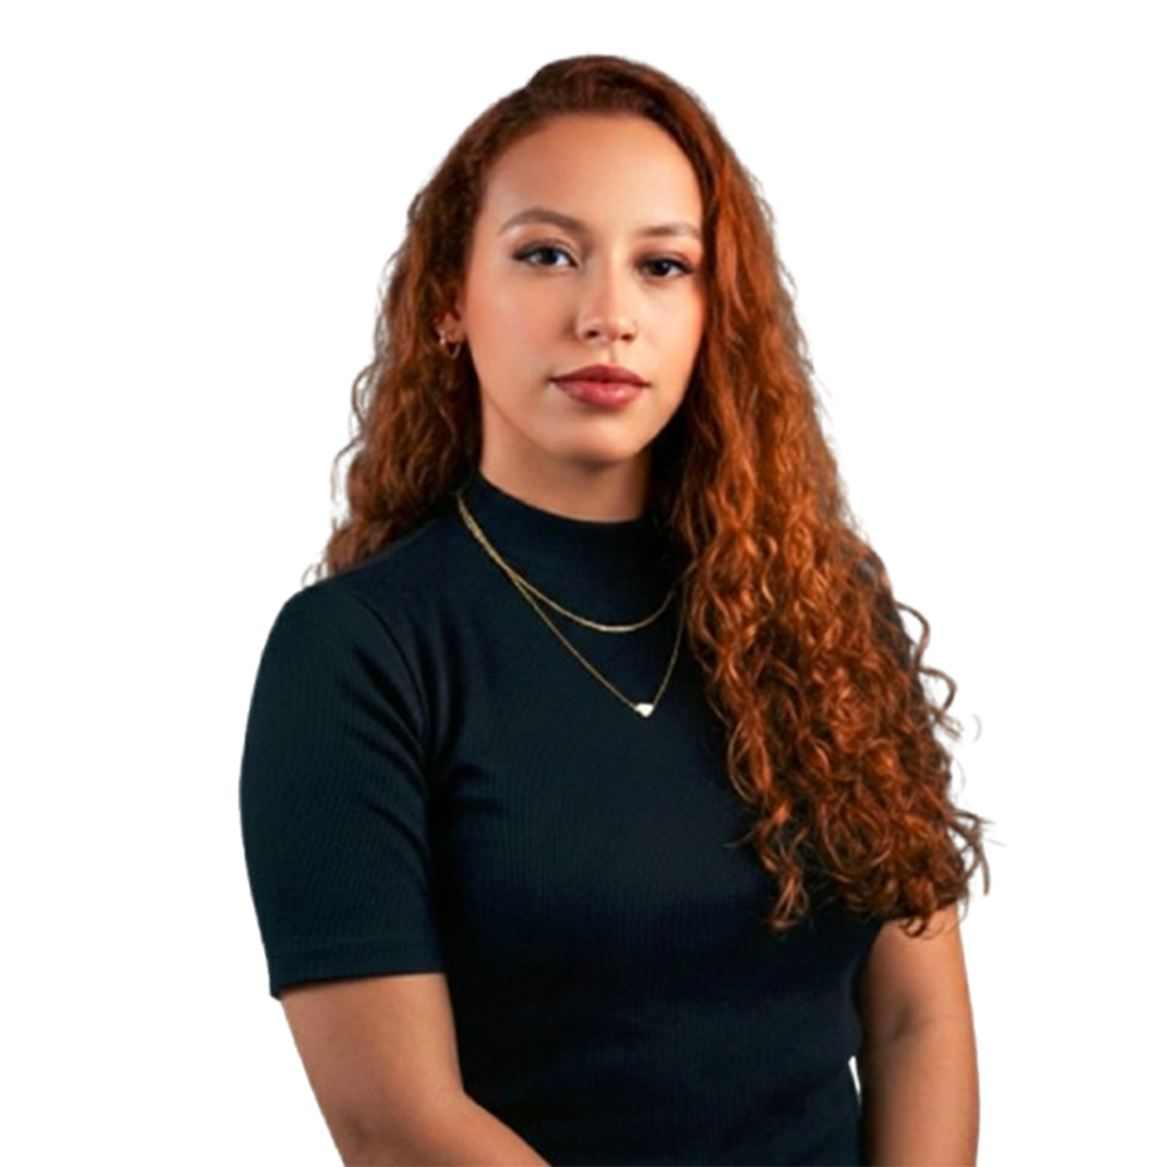
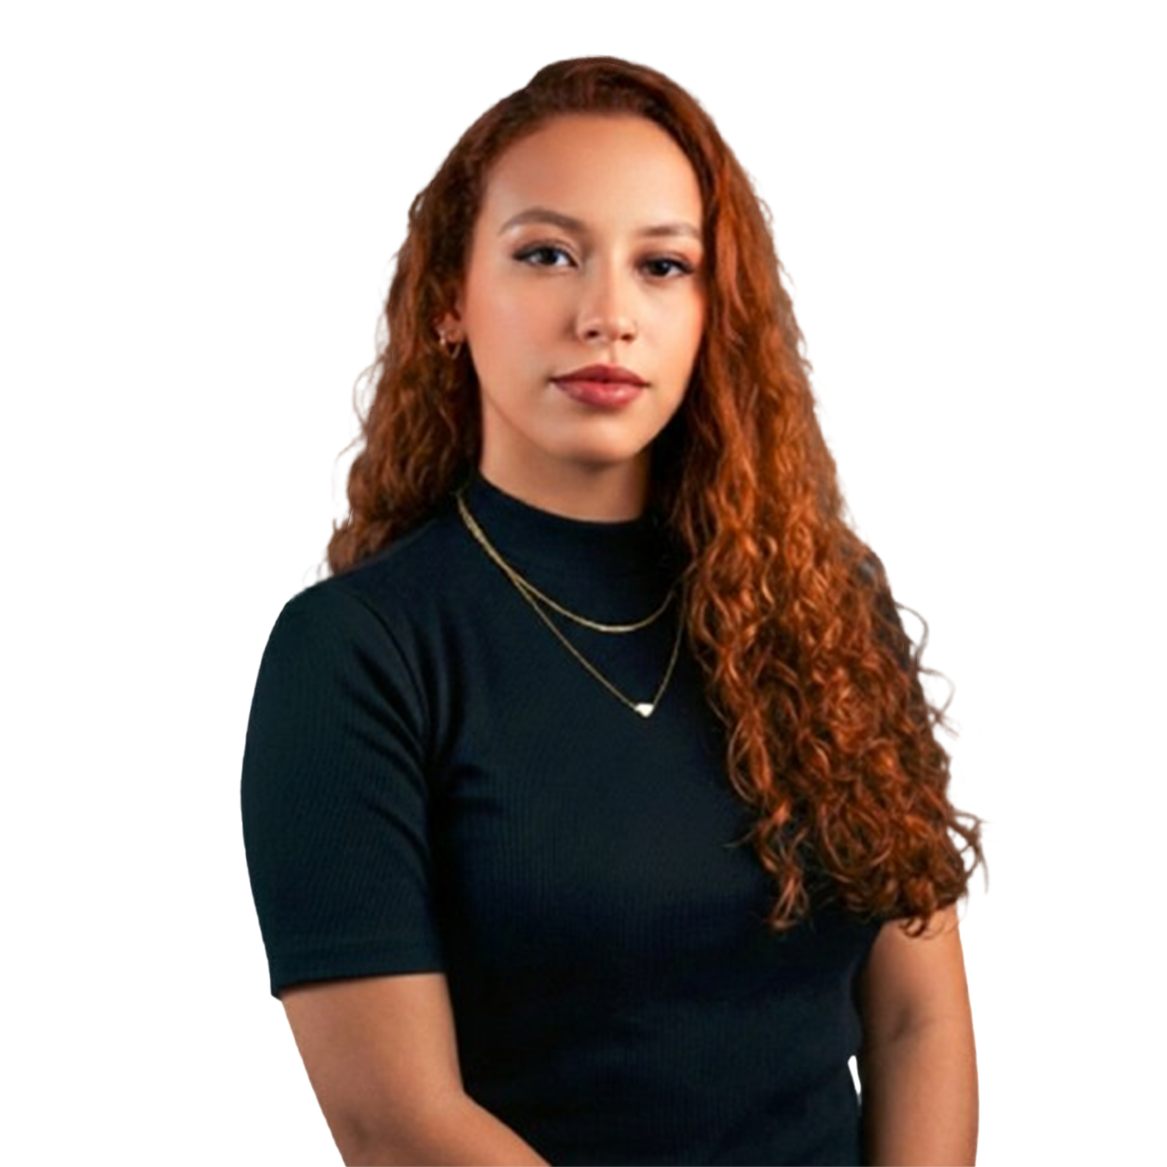
refactor(cutilagem): atualiza LP com imagens de capas reais e remove elementos extras
- Remove logo_mca.png e usa título em texto estilizado
- Adiciona 'ou R,90 à vista' abaixo do preço
- Adiciona emoji check verde nos argumentos
- Remove menção sobre redução de tempo
- Substitui cards de módulos por imagens reais das capas
- Apostila agora é o bônus exclusivo (removido checklist)
- Remove seção de descrição dos itens (quadrados)
- Adiciona imagem cuticula_b.png abaixo do botão de comprar

diff --git a/src/app/cutilagem/page.tsx b/src/app/cutilagem/page.tsx
@@ -108,23 +108,12 @@ export default function CutilagemLandingPage() {
                 <section className="relative px-4 py-8 md:py-12">
                     <div className="max-w-5xl mx-auto">
 
-                        {/* Título + Logo do Produto */}
+                        {/* Título do Produto */}
                         <div className="text-center mb-8">
-                            {/* Título em letras garrafais - visível apenas no mobile */}
-                            <h1 className="md:hidden text-3xl font-black uppercase tracking-tight text-white mb-4 font-[family-name:var(--font-montserrat)]">
+                            <h1 className="text-3xl md:text-5xl font-black uppercase tracking-tight text-white mb-4 font-[family-name:var(--font-montserrat)]">
                                 O Manual de<br />
-                                <span className="text-4xl bg-gradient-to-r from-[#D4AF37] via-[#F4E4BC] to-[#D4AF37] bg-clip-text text-transparent">Cutilagem Avançada</span>
+                                <span className="text-4xl md:text-6xl bg-gradient-to-r from-[#D4AF37] via-[#F4E4BC] to-[#D4AF37] bg-clip-text text-transparent">Cutilagem Avançada</span>
                             </h1>
-                            <div className="inline-block mb-4 md:mb-6">
-                                <Image
-                                    src="/images/logo_mca.png"
-                                    alt="O Manual de Cutilagem Avançada"
-                                    width={400}
-                                    height={200}
-                                    className="w-full max-w-[200px] md:max-w-[400px] h-auto mx-auto"
-                                    priority
-                                />
-                            </div>
                             <p className="text-gray-400 text-base md:text-xl tracking-wider uppercase font-[family-name:var(--font-poppins)]">Para Nail Designer</p>
                         </div>
 
@@ -170,12 +159,24 @@ export default function CutilagemLandingPage() {
                                         <span className="text-3xl text-[#22C55E] font-bold">R$</span>
                                         <span className="text-7xl md:text-8xl font-black text-[#22C55E]">{PRECO_PARCELADO}</span>
                                     </div>
+                                    <p className="text-sm text-gray-400">ou R$ {PRECO_AVISTA} à vista</p>
                                 </div>
 
                                 <CTAButton>
                                     SIM, QUERO COMPRAR AGORA!
                                 </CTAButton>
                                 <p className="text-xs text-gray-500 mt-3 text-center">Acesso imediato • Pagamento seguro</p>
+
+                                {/* Imagem de cutícula */}
+                                <div className="mt-6">
+                                    <Image
+                                        src="/images/cuticula_b.png"
+                                        alt="Resultado de cutilagem profissional"
+                                        width={400}
+                                        height={300}
+                                        className="w-full max-w-[350px] h-auto mx-auto rounded-xl shadow-lg"
+                                    />
+                                </div>
                             </div>
                         </div>
                     </div>
@@ -204,12 +205,11 @@ export default function CutilagemLandingPage() {
 
                         <div className="bg-[#0a0a0a] border border-gray-800 rounded-xl p-6 md:p-8">
                             <ul className="space-y-4">
-                                <CheckItem>Fazer uma cutilagem fundinha, sem dar bife e sem machucar a cliente</CheckItem>
-                                <CheckItem>Reduzir o tempo de atendimento pela metade (mais clientes = mais lucro)</CheckItem>
-                                <CheckItem>Cobrar mais caro por um acabamento visivelmente superior</CheckItem>
-                                <CheckItem>Aprender a técnica do corte contínuo de uma vez por todas</CheckItem>
-                                <CheckItem>Ter confiança ao pegar o alicate, sem medo de errar</CheckItem>
-                                <CheckItem>Deixar a cutícula pronta para receber qualquer tipo de esmaltação</CheckItem>
+                                <CheckItem>✅ Fazer uma cutilagem fundinha, sem dar bife e sem machucar a cliente</CheckItem>
+                                <CheckItem>✅ Cobrar mais caro por um acabamento visivelmente superior</CheckItem>
+                                <CheckItem>✅ Aprender a técnica do corte contínuo de uma vez por todas</CheckItem>
+                                <CheckItem>✅ Ter confiança ao pegar o alicate, sem medo de errar</CheckItem>
+                                <CheckItem>✅ Deixar a cutícula pronta para receber qualquer tipo de esmaltação</CheckItem>
                             </ul>
                         </div>
                     </div>
@@ -222,135 +222,57 @@ export default function CutilagemLandingPage() {
                             O que você recebe <span className="text-[#22C55E]">HOJE:</span>
                         </h2>
 
-                        {/* Grid de Módulos - Cards no desktop, texto simples no mobile */}
-                        {/* Desktop: Cards coloridos */}
-                        <div className="hidden md:grid grid-cols-4 gap-4 mb-10">
+                        {/* Grid de Capas dos Módulos */}
+                        <div className="grid grid-cols-2 md:grid-cols-4 gap-4 mb-10">
                             {/* Módulo 1 - Cutilagem com Alicate */}
-                            <div className="group relative bg-gradient-to-b from-[#C41E3A] to-[#8B0000] rounded-xl overflow-hidden transform hover:scale-105 transition-all duration-300 shadow-lg hover:shadow-[#C41E3A]/30">
-                                <div className="p-4 text-center">
-                                    <p className="text-xs text-white/70 font-medium mb-1">O Manual de</p>
-                                    <h4 className="text-lg font-bold text-white leading-tight mb-1">Cutilagem<br />Avançada</h4>
-                                    <div className="h-px bg-[#D4AF37] w-12 mx-auto my-2"></div>
-                                    <p className="text-sm font-bold text-[#D4AF37]">Cutilagem com Alicate</p>
-                                </div>
-                                <div className="h-1 bg-[#D4AF37] w-full absolute bottom-0"></div>
+                            <div className="group relative rounded-xl overflow-hidden transform hover:scale-105 transition-all duration-300 shadow-lg">
+                                <Image
+                                    src="/images/capa_mca_cutilagem_com_alicate.png"
+                                    alt="Cutilagem com Alicate"
+                                    width={300}
+                                    height={400}
+                                    className="w-full h-auto rounded-xl"
+                                />
                             </div>
 
                             {/* Módulo 2 - Cutilagem Combinada */}
-                            <div className="group relative bg-gradient-to-b from-[#FF8C00] to-[#CC7000] rounded-xl overflow-hidden transform hover:scale-105 transition-all duration-300 shadow-lg hover:shadow-[#FF8C00]/30">
-                                <div className="p-4 text-center">
-                                    <p className="text-xs text-white/70 font-medium mb-1">O Manual de</p>
-                                    <h4 className="text-lg font-bold text-white leading-tight mb-1">Cutilagem<br />Avançada</h4>
-                                    <div className="h-px bg-white/50 w-12 mx-auto my-2"></div>
-                                    <p className="text-sm font-bold text-white">Cutilagem Combinada</p>
-                                </div>
-                                <div className="h-1 bg-[#D4AF37] w-full absolute bottom-0"></div>
+                            <div className="group relative rounded-xl overflow-hidden transform hover:scale-105 transition-all duration-300 shadow-lg">
+                                <Image
+                                    src="/images/capa_mca_cutilagem_combinada.png"
+                                    alt="Cutilagem Combinada"
+                                    width={300}
+                                    height={400}
+                                    className="w-full h-auto rounded-xl"
+                                />
                             </div>
 
                             {/* Módulo 3 - Cutilagem com Cera */}
-                            <div className="group relative bg-gradient-to-b from-[#FFD700] to-[#B8860B] rounded-xl overflow-hidden transform hover:scale-105 transition-all duration-300 shadow-lg hover:shadow-[#FFD700]/30">
-                                <div className="p-4 text-center">
-                                    <p className="text-xs text-black/60 font-medium mb-1">O Manual de</p>
-                                    <h4 className="text-lg font-bold text-black leading-tight mb-1">Cutilagem<br />Avançada</h4>
-                                    <div className="h-px bg-black/30 w-12 mx-auto my-2"></div>
-                                    <p className="text-sm font-bold text-[#8B0000]">Cutilagem com Cera</p>
-                                </div>
-                                <div className="h-1 bg-[#8B0000] w-full absolute bottom-0"></div>
+                            <div className="group relative rounded-xl overflow-hidden transform hover:scale-105 transition-all duration-300 shadow-lg">
+                                <Image
+                                    src="/images/capa_mca_cutiagem_com_cera.png"
+                                    alt="Cutilagem com Cera"
+                                    width={300}
+                                    height={400}
+                                    className="w-full h-auto rounded-xl"
+                                />
                             </div>
 
-                            {/* Módulo 4 - Apostila */}
-                            <div className="group relative bg-gradient-to-b from-[#1E3A8A] to-[#1E40AF] rounded-xl overflow-hidden transform hover:scale-105 transition-all duration-300 shadow-lg hover:shadow-[#1E3A8A]/30">
-                                <div className="p-4 text-center">
-                                    <p className="text-xs text-white/70 font-medium mb-1">O Manual de</p>
-                                    <h4 className="text-lg font-bold text-white leading-tight mb-1">Cutilagem<br />Avançada</h4>
-                                    <div className="h-px bg-white/50 w-12 mx-auto my-2"></div>
-                                    <p className="text-sm font-bold text-[#D4AF37]">Apostila</p>
+                            {/* Módulo 4 - Apostila (BÔNUS) */}
+                            <div className="group relative rounded-xl overflow-hidden transform hover:scale-105 transition-all duration-300 shadow-lg">
+                                <div className="absolute top-2 right-2 z-10 bg-[#22C55E] text-white text-xs font-bold px-2 py-1 rounded">
+                                    BÔNUS
                                 </div>
-                                <div className="h-1 bg-[#D4AF37] w-full absolute bottom-0"></div>
-                            </div>
-                        </div>
-
-                        {/* Mobile: Lista simples de texto */}
-                        <ul className="md:hidden space-y-3 mb-10 text-center">
-                            <li className="text-white text-lg font-medium"><i className="fa-solid fa-check text-[#22C55E] mr-2"></i>Cutilagem com Alicate</li>
-                            <li className="text-white text-lg font-medium"><i className="fa-solid fa-check text-[#22C55E] mr-2"></i>Cutilagem Combinada</li>
-                            <li className="text-white text-lg font-medium"><i className="fa-solid fa-check text-[#22C55E] mr-2"></i>Cutilagem com Cera</li>
-                            <li className="text-white text-lg font-medium"><i className="fa-solid fa-check text-[#22C55E] mr-2"></i>Apostila Completa em PDF</li>
-                        </ul>
-
-                        {/* Descrição dos itens */}
-                        <div className="space-y-4">
-                            {/* Item 1 */}
-                            <div className="bg-[#111] border border-gray-800 rounded-xl p-5 flex flex-col md:flex-row items-center gap-5">
-                                <div className="w-16 h-16 flex-shrink-0 bg-gradient-to-br from-[#C41E3A] to-[#8B0000] rounded-lg flex items-center justify-center">
-                                    <i className="fa-solid fa-video text-2xl text-white"></i>
-                                </div>
-                                <div className="flex-1 text-center md:text-left">
-                                    <h3 className="text-lg font-bold text-white mb-1 font-[family-name:var(--font-montserrat)]">Cutilagem com Alicate</h3>
-                                    <p className="text-gray-400 text-sm font-[family-name:var(--font-poppins)]">Técnica clássica dominada - corte contínuo perfeito</p>
-                                </div>
-                                <div className="text-right">
-                                    <span className="text-gray-500 line-through text-sm">R$ 67</span>
-                                </div>
-                            </div>
-
-                            {/* Item 2 */}
-                            <div className="bg-[#111] border border-gray-800 rounded-xl p-5 flex flex-col md:flex-row items-center gap-5">
-                                <div className="w-16 h-16 flex-shrink-0 bg-gradient-to-br from-[#FF8C00] to-[#CC7000] rounded-lg flex items-center justify-center">
-                                    <i className="fa-solid fa-hand-sparkles text-2xl text-white"></i>
-                                </div>
-                                <div className="flex-1 text-center md:text-left">
-                                    <h3 className="text-lg font-bold text-white mb-1 font-[family-name:var(--font-montserrat)]">Cutilagem Combinada</h3>
-                                    <p className="text-gray-400 text-sm font-[family-name:var(--font-poppins)]">Combine pusher + alicate para resultado profissional</p>
-                                </div>
-                                <div className="text-right">
-                                    <span className="text-gray-500 line-through text-sm">R$ 67</span>
-                                </div>
-                            </div>
-
-                            {/* Item 3 */}
-                            <div className="bg-[#111] border border-gray-800 rounded-xl p-5 flex flex-col md:flex-row items-center gap-5">
-                                <div className="w-16 h-16 flex-shrink-0 bg-gradient-to-br from-[#FFD700] to-[#B8860B] rounded-lg flex items-center justify-center">
-                                    <i className="fa-solid fa-fire text-2xl text-white"></i>
-                                </div>
-                                <div className="flex-1 text-center md:text-left">
-                                    <h3 className="text-lg font-bold text-white mb-1 font-[family-name:var(--font-montserrat)]">Cutilagem com Cera</h3>
-                                    <p className="text-gray-400 text-sm font-[family-name:var(--font-poppins)]">Método inovador para cutículas sensíveis</p>
-                                </div>
-                                <div className="text-right">
-                                    <span className="text-gray-500 line-through text-sm">R$ 47</span>
-                                </div>
-                            </div>
-
-                            {/* Item 4 - Apostila */}
-                            <div className="bg-[#111] border border-gray-800 rounded-xl p-5 flex flex-col md:flex-row items-center gap-5">
-                                <div className="w-16 h-16 flex-shrink-0 bg-gradient-to-br from-[#1E3A8A] to-[#1E40AF] rounded-lg flex items-center justify-center">
-                                    <i className="fa-solid fa-book text-2xl text-white"></i>
-                                </div>
-                                <div className="flex-1 text-center md:text-left">
-                                    <h3 className="text-lg font-bold text-white mb-1 font-[family-name:var(--font-montserrat)]">Apostila Completa em PDF</h3>
-                                    <p className="text-gray-400 text-sm font-[family-name:var(--font-poppins)]">Download para consultar sempre que precisar</p>
-                                </div>
-                                <div className="text-right">
-                                    <span className="text-gray-500 line-through text-sm">R$ 47</span>
-                                </div>
-                            </div>
-
-                            {/* Bônus */}
-                            <div className="bg-gradient-to-r from-[#22C55E]/20 to-[#111] border border-[#22C55E]/50 rounded-xl p-5 flex flex-col md:flex-row items-center gap-5">
-                                <div className="w-16 h-16 flex-shrink-0 bg-[#22C55E] rounded-lg flex items-center justify-center">
-                                    <i className="fa-solid fa-gift text-2xl text-white"></i>
-                                </div>
-                                <div className="flex-1 text-center md:text-left">
-                                    <div className="inline-block bg-[#22C55E] text-white text-xs font-bold px-2 py-1 rounded mb-2 font-[family-name:var(--font-montserrat)]">BÔNUS EXCLUSIVO</div>
-                                    <h3 className="text-lg font-bold text-white mb-1 font-[family-name:var(--font-montserrat)]">Checklist de Materiais Profissionais</h3>
-                                    <p className="text-gray-300 text-sm font-[family-name:var(--font-poppins)]">Lista completa dos materiais que eu uso no meu ateliê</p>
-                                </div>
-                                <div className="text-right">
-                                    <span className="text-[#22C55E] font-bold">GRÁTIS</span>
-                                </div>
+                                <Image
+                                    src="/images/capa_mca_apostila.png"
+                                    alt="Apostila - BÔNUS"
+                                    width={300}
+                                    height={400}
+                                    className="w-full h-auto rounded-xl"
+                                />
                             </div>
                         </div>
+
+
                     </div>
                 </section>
 
@@ -358,15 +280,11 @@ export default function CutilagemLandingPage() {
                 <section className="py-12 px-4 bg-[#0a0a0a]">
                     <div className="max-w-xl mx-auto">
                         <div className="bg-[#111] border-2 border-[#C41E3A]/50 rounded-2xl overflow-hidden shadow-2xl shadow-[#C41E3A]/10">
-                            {/* Header do Card com Logo */}
+                            {/* Header do Card */}
                             <div className="bg-gradient-to-r from-[#8B0000] to-[#C41E3A] py-5 px-6 text-center">
-                                <Image
-                                    src="/images/logo_mca.png"
-                                    alt="O Manual de Cutilagem Avançada"
-                                    width={200}
-                                    height={100}
-                                    className="w-40 h-auto mx-auto mb-2"
-                                />
+                                <h3 className="text-2xl font-black text-white mb-1 font-[family-name:var(--font-montserrat)]">
+                                    O Manual de <span className="bg-gradient-to-r from-[#D4AF37] via-[#F4E4BC] to-[#D4AF37] bg-clip-text text-transparent">Cutilagem Avançada</span>
+                                </h3>
                                 <p className="text-white/90 font-medium text-sm uppercase tracking-wider">Oferta Especial de Lançamento</p>
                             </div>
 
@@ -445,13 +363,9 @@ export default function CutilagemLandingPage() {
                 {/* ========== CTA FINAL ========== */}
                 <section className="py-16 px-4 bg-gradient-to-b from-[#0a0a0a] to-[#111]">
                     <div className="max-w-xl mx-auto text-center">
-                        <Image
-                            src="/images/logo_mca.png"
-                            alt="O Manual de Cutilagem Avançada"
-                            width={180}
-                            height={90}
-                            className="w-36 h-auto mx-auto mb-6 opacity-80"
-                        />
+                        <h3 className="text-2xl md:text-3xl font-black text-white mb-2 font-[family-name:var(--font-montserrat)]">
+                            O Manual de <span className="bg-gradient-to-r from-[#D4AF37] via-[#F4E4BC] to-[#D4AF37] bg-clip-text text-transparent">Cutilagem Avançada</span>
+                        </h3>
                         <p className="text-white mb-6 text-lg">Essa oferta pode sair do ar a qualquer momento</p>
                         <CTAButton className="mb-4">
                             SIM, QUERO COMPRAR AGORA!
